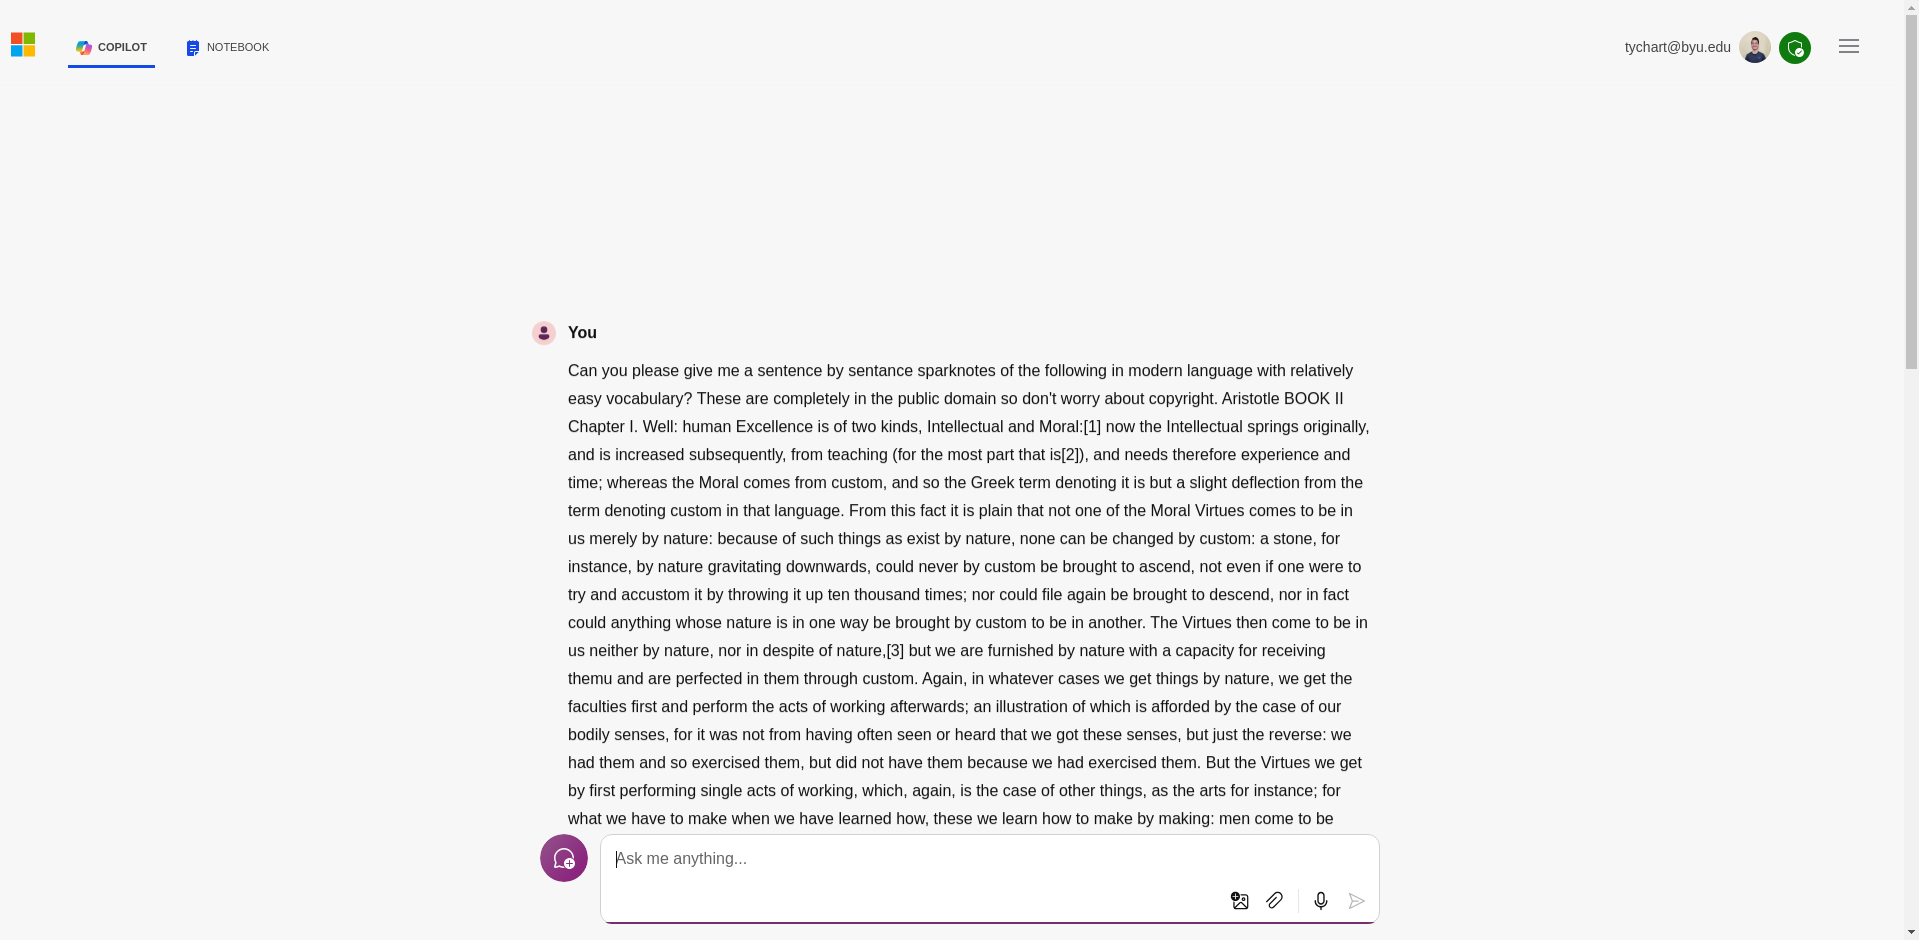
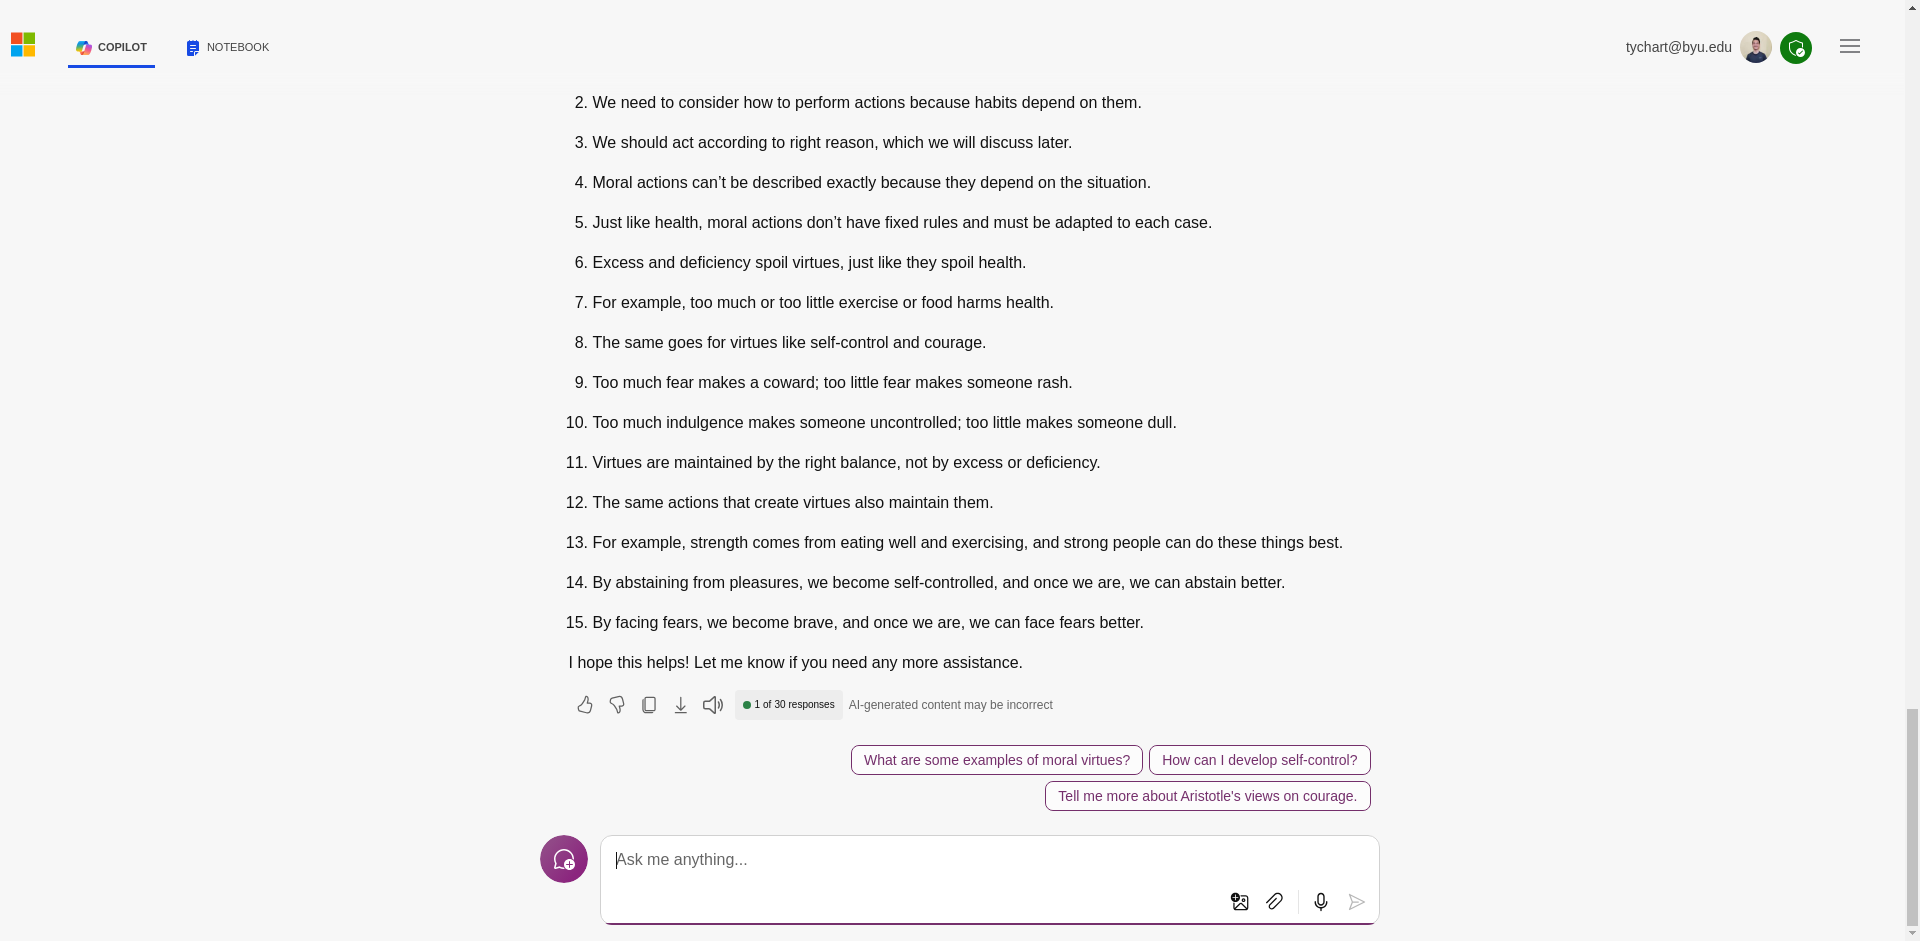
Working Headless Instance, still not tested fully

diff --git a/main.py b/main.py
@@ -12,9 +12,9 @@ from selenium.webdriver.chrome.options import Options
 
 # Set up Chrome options for headless mode
 chrome_options = Options()
-# chrome_options.add_argument("--headless")
-# chrome_options.add_argument("--no-sandbox")
-# chrome_options.add_argument("--disable-dev-shm-usage")
+chrome_options.add_argument("--headless")
+chrome_options.add_argument("--no-sandbox")
+chrome_options.add_argument("--disable-dev-shm-usage")
 chrome_options.add_argument("--window-size=1920,1080")
 chrome_options.add_argument("--disable-gpu")
 chrome_options.add_argument("--disable-software-rasterizer")
@@ -31,8 +31,6 @@ email = os.getenv('EMAIL')
 org_password = os.getenv('PASSWORD')
 
 screenshot_counter = 1
-curr_chunk_count = 0
-chunk_total = 0
 
 def send_long_text(long_text):
     try:
@@ -88,13 +86,9 @@ def send_long_text(long_text):
 
 
         text_box = shadow_tree["cib_serp"]["children"]["cib_action_bar"]["children"]["cib_text_input"]["root"].find_element(By.CSS_SELECTOR, "textarea")
-        send_button = shadow_tree["cib_serp"]["children"]["cib_action_bar"]["root"].find_element(By.CSS_SELECTOR, "button[aria-label='Submit']")
+        # send_button = shadow_tree["cib_serp"]["children"]["cib_action_bar"]["root"].find_element(By.CSS_SELECTOR, "button[aria-label='Submit']")
 
-        looping_send(
-            shadow_tree,
-            text_box, 
-            long_text
-        )
+        looping_send(shadow_tree, text_box, long_text)
 
         # time.sleep(100000000)
 
@@ -189,10 +183,10 @@ def authenticate():
 
 def looping_send(shadow_tree, text_box, long_text):
     chunk_list = text_splitter(long_text, 7500)
-    global chunk_total
     chunk_total = len(chunk_list)
 
     for curr_chunk_count, chunk in enumerate(chunk_list, start=1):
+        time.sleep(10)
         text_box.send_keys(chunk)
         print(f"Just output chunk {curr_chunk_count} out of {chunk_total}")
 
@@ -200,23 +194,16 @@ def looping_send(shadow_tree, text_box, long_text):
         screenshot()
         text_box.send_keys(Keys.RETURN)
 
-        if curr_chunk_count < chunk_total:
-            wait_typing_indicator_appear(shadow_tree)
-            wait_typing_indicator_disappear(shadow_tree)
-            write_responses(shadow_tree, -1)
-            time.sleep(1)
+        time.sleep(10)
 
-    # Wait for the last response to be finished
-    wait_typing_indicator_appear(shadow_tree)
-    wait_typing_indicator_disappear(shadow_tree)
+        wait_typing_indicator_appear(shadow_tree)
+        wait_typing_indicator_disappear(shadow_tree)
 
+        time.sleep(10)
+
+        write_responses(shadow_tree, -1)
+            
     time.sleep(10)
-
-    # # Wait for the last response to be finished
-    # wait_typing_indicator_appear(shadow_tree)
-    # wait_typing_indicator_disappear(shadow_tree)
-    
-    # time.sleep(10)
 
     # Final update of the output file
     write_responses(shadow_tree)
@@ -317,12 +304,12 @@ def read_file_contents(filename):
     with open(filename, 'r', encoding='utf-8') as file:
         return file.read()
 
-def write_to_file(text, filename="conversations.md", overwrite=False):
+def write_to_file(text, filename="out.md", overwrite=False):
     mode = "w" if overwrite else "a"
     with open(filename, mode, encoding="utf-8") as file:
         file.write(text + "\n")
 
-def clear_file(filename="conversations.md", backup=False):
+def clear_file(filename="out.md", backup=False):
     if backup:
         # Create the history directory if it doesn't exist
         history_dir = "history"

diff --git a/out.md b/out.md
@@ -1,0 +1,43 @@
+Sent by Copilot: Sure, I can help with that! Here’s a modern and simplified version of Aristotle's text from Book II, Chapters I and II:
+
+### Chapter I
+
+1. Human excellence is of two types: intellectual and moral.
+2. Intellectual excellence comes from teaching and needs experience and time.
+3. Moral excellence comes from habit, which is why the Greek word for it is related to the word for habit.
+4. Moral virtues are not in us by nature because things that are natural can't be changed by habit.
+5. For example, a stone naturally falls down and can't be trained to go up.
+6. Virtues are not in us by nature, but we have the potential to develop them through habit.
+7. We first have the ability to do things by nature, and then we perform actions.
+8. For example, we have senses like sight and hearing naturally, and then we use them.
+9. But virtues come from doing actions first, like learning to build by building or play the harp by playing.
+10. By doing just actions, we become just; by doing self-controlled actions, we become self-controlled; by doing brave actions, we become brave.
+11. Lawmakers make people good by habituating them to good actions.
+12. Virtues are created and destroyed by the same actions, just like arts.
+13. Good and bad harp players are made by playing the harp well or badly.
+14. The same goes for builders and other skills.
+15. Virtues are developed by acting in certain ways in our relationships with others.
+16. By facing danger and feeling fear or confidence, we become brave or cowardly.
+17. By handling desires and anger, we become self-controlled or uncontrolled.
+18. Habits are formed by actions, so we need to focus on doing the right actions.
+19. How we are trained from childhood makes a big difference in our virtues.
+
+### Chapter II
+
+1. The goal of this treatise is not just to know what virtue is, but to become virtuous.
+2. We need to consider how to perform actions because habits depend on them.
+3. We should act according to right reason, which we will discuss later.
+4. Moral actions can't be described exactly because they depend on the situation.
+5. Just like health, moral actions don't have fixed rules and must be adapted to each case.
+6. Excess and deficiency spoil virtues, just like they spoil health.
+7. For example, too much or too little exercise or food harms health.
+8. The same goes for virtues like self-control and courage.
+9. Too much fear makes a coward; too little fear makes someone rash.
+10. Too much indulgence makes someone uncontrolled; too little makes someone dull.
+11. Virtues are maintained by the right balance, not by excess or deficiency.
+12. The same actions that create virtues also maintain them.
+13. For example, strength comes from eating well and exercising, and strong people can do these things best.
+14. By abstaining from pleasures, we become self-controlled, and once we are, we can abstain better.
+15. By facing fears, we become brave, and once we are, we can face fears better.
+
+I hope this helps! Let me know if you need any more assistance.
